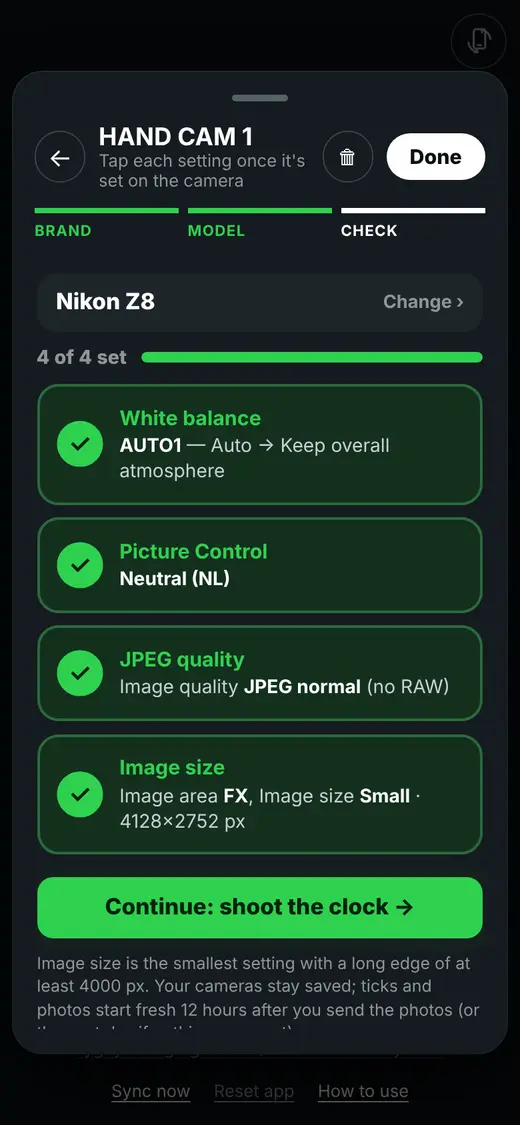
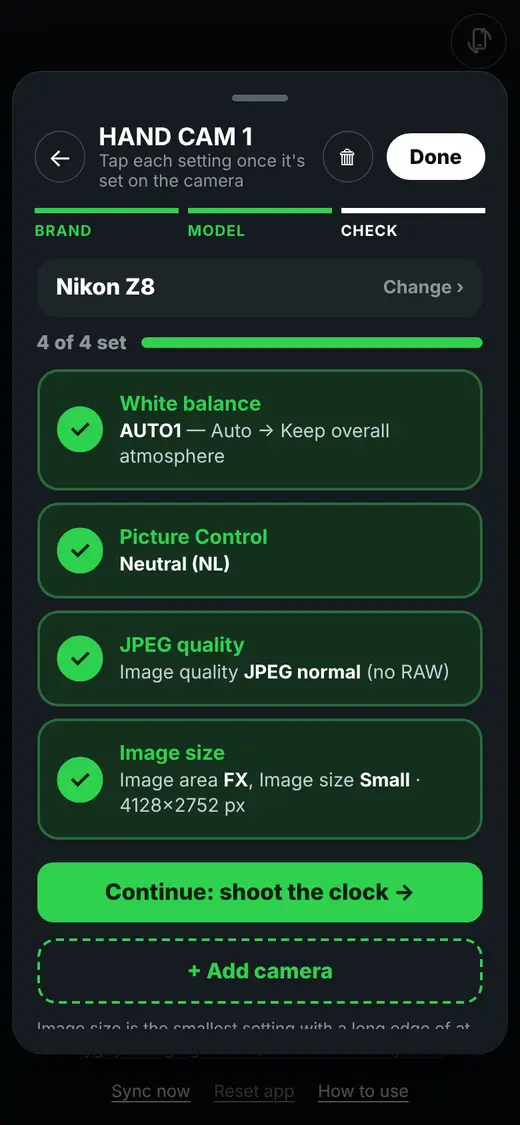
Add cameras from the check screen; all checks, then all clocks, then all screens
- "+ Add camera" under Continue on the settings check opens the new camera's
  brand screen (slide down drops it again and returns to the check).
- Camera row in the check screen shows with 2+ cameras and is no longer cut
  in half.
- Continue goes to the next camera still needing its check, then to shooting.
- Clock step runs through every checked camera in turn ("Shot → next: LS 1",
  "clock 1 of 2"); the white box switches to that camera so each clock shot
  is labelled right. Then each camera's screen photo and review, then Send.
- Guide text and screenshots updated.

Claude-Session: https://claude.ai/code/session_01JznZzYxsbG1MxddMkXcSY2

Changed region(s): [[0.0615, 0.4044, 0.9538, 0.9333], [0.0615, 0.2489, 0.9231, 0.4356], [0.8923, 0.4044, 0.9231, 0.4667]]

diff --git a/index.html b/index.html
@@ -196,6 +196,11 @@ html.land:not(.rot) .g-body img{width:min(100%, 11rem)}
 @keyframes scIn{from{opacity:0; transform:translateX(28px)}} @keyframes scBack{from{opacity:0; transform:translateX(-28px)}}
 .pop-label{font-size:.72rem; font-weight:800; letter-spacing:.08em; text-transform:uppercase; color:var(--muted); margin-top:.2rem}
 .pop-label[hidden]{display:none}
+.pop-sc > *{flex-shrink:0}   /* nothing in a popup screen gets squashed (the camera row was being cut in half) */
+.strip[hidden]{display:none}
+.addcam{font:inherit; font-weight:800; font-size:1rem; color:var(--ok); background:transparent; border:2px dashed var(--ok); border-radius:14px; padding:.8rem; cursor:pointer}
+.addcam[hidden]{display:none}
+.addcam:active{transform:scale(.98)}
 /* Hand cam / LS switch */
 .seg{display:flex; background:#0e1316; border-radius:14px; padding:4px; gap:4px}
 .seg[hidden]{display:none}
@@ -601,6 +606,7 @@ html:not(.land) .taphint{transform:translateY(calc(-1 * var(--boxh, 0px))); tran
       <div class="ckhead"><span id="ckCount"></span><div class="ckbar"><i id="ckFill"></i></div></div>
       <ol id="checklist" class="checklist"></ol>
       <button id="sheetGo" class="fl-go" type="button" hidden></button>
+      <button id="pAddCam" class="addcam" type="button">+ Add camera</button>
       <div id="photoRow" class="photorow" hidden><img id="photoThumb" alt="Photo of the camera back"><span>Camera-back photo saved</span><button id="photoRetake" class="addbtn" type="button">Retake</button><button id="photoDel" class="addbtn del" type="button">Delete</button></div>
       <p id="sheetNote" class="sheet-note"></p>
       <button id="sendPhotos" class="resetbtn send" type="button" hidden></button>
@@ -645,18 +651,18 @@ html:not(.land) .taphint{transform:translateY(calc(-1 * var(--boxh, 0px))); tran
 <div id="guide" class="viewer guide" hidden role="dialog" aria-modal="true" aria-labelledby="gTitle">
   <div class="view-top g-top"><b id="gTitle">How to use</b><button id="gClose" class="g-close" type="button" aria-label="Close the guide">✕</button></div>
   <ol class="g-list">
-    <li class="g-step"><div class="g-num">1</div><div class="g-body"><b>Type your initials</b><p>Tap the white box at the top and type them in, then tap <b>Done</b> on the keyboard. They go on every camera label and photo name. Tap the box again any time to change them.</p><img src="guide/1.webp?v=5" alt="" loading="lazy" width="390" height="844"></div></li>
-    <li class="g-step"><div class="g-num">2</div><div class="g-body"><b>Add your first camera</b><p>Tap <b>+ 📷</b> at the bottom of the clock screen.</p><img src="guide/2.webp?v=5" alt="" loading="lazy" width="390" height="844"></div></li>
-    <li class="g-step"><div class="g-num">3</div><div class="g-body"><b>Pick the camera</b><p>Choose <b>Hand cam</b> or <b>LS</b> at the top, then tap the brand and the model. Your recent cameras show at the top for one-tap picks.</p><img src="guide/3.webp?v=5" alt="" loading="lazy" width="390" height="844"></div></li>
-    <li class="g-step"><div class="g-num">4</div><div class="g-body"><b>Set the 4 settings</b><p>Set each setting on your camera and tick it. Every tick has to be tapped. Then tap <b>Continue: shoot the clock →</b>.</p><img src="guide/4.webp?v=5" alt="" loading="lazy" width="390" height="844"></div></li>
-    <li class="g-step"><div class="g-num">5</div><div class="g-body"><b>Shoot the clock</b><p>Point your camera at the clock and take a shot. Then tap <b>Done →</b> on the green bubble.</p><img src="guide/5.webp?v=5" alt="" loading="lazy" width="390" height="844"></div></li>
-    <li class="g-step"><div class="g-num">6</div><div class="g-body"><b>The green bubble</b><p>The bubble always shows your next step: just tap it. Drag it anywhere on the screen to keep the clock clear. Tap the <b>⤢ arrows</b> to open the camera box: your cameras, progress, ✎ 🗑 ✕, the instructions and ← Back links. Tap its line, tap ✕ or slide it down to turn it back into the bubble.</p><img src="guide/6.webp?v=5" alt="" loading="lazy" width="390" height="844"></div></li>
-    <li class="g-step"><div class="g-num">7</div><div class="g-body"><b>Photograph the camera's screen</b><p>On the camera, play back the shot of the clock with its <b>time showing</b>. Tap <b>📷 Shoot</b>, fill the frame with the camera's screen and press the shutter.</p><img src="guide/7.webp?v=5" alt="" loading="lazy" width="390" height="844"></div></li>
-    <li class="g-step"><div class="g-num">8</div><div class="g-body"><b>Check: same second?</b><p>The app reads the clock in the shot and the camera's own time and tells you <b>In sync ✓</b> or how many seconds it's off. Zoom in to check by eye. In sync: tap <b>✓ Yes, in sync</b>. Not in sync: fix the camera's clock, shoot the clock again and <b>Retake</b>.</p><img src="guide/8.webp?v=5" alt="" loading="lazy" width="390" height="844"></div></li>
-    <li class="g-step"><div class="g-num">9</div><div class="g-body"><b>Next camera or add one</b><p>Tap <b>Next camera →</b> for the next one in your list. Tap <b>+ 📷</b> on the bubble to add another hand cam or LS.</p><img src="guide/9.webp?v=5" alt="" loading="lazy" width="390" height="844"></div></li>
-    <li class="g-step"><div class="g-num">10</div><div class="g-body"><b>Send the photos</b><p>When every camera has its photo, tap <b>Send →</b>. Look over the list (tap one to see it again), then tap <b>Send</b> and pick your group chat. Sending is locked until every camera has a photo; a red tile takes you to the one that's missing.</p><img src="guide/10.webp?v=5" alt="" loading="lazy" width="390" height="844"></div></li>
-    <li class="g-step"><div class="g-num">11</div><div class="g-body"><b>Change, delete or switch cameras</b><p>Open the box with the ⤢ arrows: tap a camera to switch to it, tap it again (or ✎) to change its check, 🗑 twice to delete it, + to add one.</p><img src="guide/11.webp?v=5" alt="" loading="lazy" width="390" height="844"></div></li>
-    <li class="g-step"><div class="g-num">12</div><div class="g-body"><b>Change Hand cam / LS</b><p>Tap the camera name in the white box (e.g. <b>· HAND CAM 1</b>). Under <b>Change cam to:</b> pick <b>Hand cam</b> or <b>LS</b>. Its ticks and photo move with it.</p><img src="guide/12.webp?v=5" alt="" loading="lazy" width="390" height="844"></div></li>
+    <li class="g-step"><div class="g-num">1</div><div class="g-body"><b>Type your initials</b><p>Tap the white box at the top and type them in, then tap <b>Done</b> on the keyboard. They go on every camera label and photo name. Tap the box again any time to change them.</p><img src="guide/1.webp?v=6" alt="" loading="lazy" width="390" height="844"></div></li>
+    <li class="g-step"><div class="g-num">2</div><div class="g-body"><b>Add your first camera</b><p>Tap <b>+ 📷</b> at the bottom of the clock screen.</p><img src="guide/2.webp?v=6" alt="" loading="lazy" width="390" height="844"></div></li>
+    <li class="g-step"><div class="g-num">3</div><div class="g-body"><b>Pick the camera</b><p>Choose <b>Hand cam</b> or <b>LS</b> at the top, then tap the brand and the model. Your recent cameras show at the top for one-tap picks.</p><img src="guide/3.webp?v=6" alt="" loading="lazy" width="390" height="844"></div></li>
+    <li class="g-step"><div class="g-num">4</div><div class="g-body"><b>Set the 4 settings</b><p>Set each setting on your camera and tick it. Every tick has to be tapped. More cameras? Tap <b>+ Add camera</b> and check each one. Then tap <b>Continue: shoot the clock →</b>.</p><img src="guide/4.webp?v=6" alt="" loading="lazy" width="390" height="844"></div></li>
+    <li class="g-step"><div class="g-num">5</div><div class="g-body"><b>Shoot the clock</b><p>Every camera shoots the clock, one after another. The white box shows whose turn it is: take the shot with that camera, then tap <b>Shot → next</b> on the green bubble (<b>Done →</b> after the last one).</p><img src="guide/5.webp?v=6" alt="" loading="lazy" width="390" height="844"></div></li>
+    <li class="g-step"><div class="g-num">6</div><div class="g-body"><b>The green bubble</b><p>The bubble always shows your next step: just tap it. Drag it anywhere on the screen to keep the clock clear. Tap the <b>⤢ arrows</b> to open the camera box: your cameras, progress, ✎ 🗑 ✕, the instructions and ← Back links. Tap its line, tap ✕ or slide it down to turn it back into the bubble.</p><img src="guide/6.webp?v=6" alt="" loading="lazy" width="390" height="844"></div></li>
+    <li class="g-step"><div class="g-num">7</div><div class="g-body"><b>Photograph the camera's screen</b><p>On the camera, play back the shot of the clock with its <b>time showing</b>. Tap <b>📷 Shoot</b>, fill the frame with the camera's screen and press the shutter.</p><img src="guide/7.webp?v=6" alt="" loading="lazy" width="390" height="844"></div></li>
+    <li class="g-step"><div class="g-num">8</div><div class="g-body"><b>Check: same second?</b><p>The app reads the clock in the shot and the camera's own time and tells you <b>In sync ✓</b> or how many seconds it's off. Zoom in to check by eye. In sync: tap <b>✓ Yes, in sync</b>. Not in sync: fix the camera's clock, shoot the clock again and <b>Retake</b>.</p><img src="guide/8.webp?v=6" alt="" loading="lazy" width="390" height="844"></div></li>
+    <li class="g-step"><div class="g-num">9</div><div class="g-body"><b>Next camera's screen</b><p>Tap <b>Next camera →</b> to photograph the next camera's screen. Forgot one? Tap <b>+ 📷</b> on the bubble to add another hand cam or LS.</p><img src="guide/9.webp?v=6" alt="" loading="lazy" width="390" height="844"></div></li>
+    <li class="g-step"><div class="g-num">10</div><div class="g-body"><b>Send the photos</b><p>When every camera has its photo, tap <b>Send →</b>. Look over the list (tap one to see it again), then tap <b>Send</b> and pick your group chat. Sending is locked until every camera has a photo; a red tile takes you to the one that's missing.</p><img src="guide/10.webp?v=6" alt="" loading="lazy" width="390" height="844"></div></li>
+    <li class="g-step"><div class="g-num">11</div><div class="g-body"><b>Change, delete or switch cameras</b><p>Open the box with the ⤢ arrows: tap a camera to switch to it, tap it again (or ✎) to change its check, 🗑 twice to delete it, + to add one.</p><img src="guide/11.webp?v=6" alt="" loading="lazy" width="390" height="844"></div></li>
+    <li class="g-step"><div class="g-num">12</div><div class="g-body"><b>Change Hand cam / LS</b><p>Tap the camera name in the white box (e.g. <b>· HAND CAM 1</b>). Under <b>Change cam to:</b> pick <b>Hand cam</b> or <b>LS</b>. Its ticks and photo move with it.</p><img src="guide/12.webp?v=6" alt="" loading="lazy" width="390" height="844"></div></li>
     <li class="g-step"><div class="g-num">i</div><div class="g-body"><b>Good to know</b><p>
       · <b>Sync now</b> re-checks the time server; the line above it shows how far off your phone's own clock is.<br>
       · <b>Tap the clock</b> to hide the buttons for a clean shot; tap again to bring them back.<br>
@@ -1355,6 +1361,8 @@ html:not(.land) .taphint{transform:translateY(calc(-1 * var(--boxh, 0px))); tran
     document.getElementById("addHC").disabled = hc >= MAXN;
     document.getElementById("addLS").disabled = ls >= MAXN;
     document.getElementById("removeCam").hidden = false;
+    tabsEl.hidden = kit.empty || kit.cams.length < 2;
+    document.getElementById("pAddCam").hidden = hc >= MAXN && ls >= MAXN;
   }
   function setActive(k){ kit.active = k; save(); hideNext(); refresh(); }
   function refresh(){
@@ -1739,6 +1747,10 @@ html:not(.land) .taphint{transform:translateY(calc(-1 * var(--boxh, 0px))); tran
   var at = {};
   function stepOf(c){ var k = photoKey(c); return at[k] || (photos[k] || skipped[k] ? 4 : shotClock[k] ? 2 : 1); }
   function go(c, n){ var k = photoKey(c); if(n === 4) delete at[k]; else at[k] = n; showNext(c); }
+  // Cameras still to shoot the clock (checked, clock not shot yet), in list order
+  function clockQueue(){ return kit.cams.filter(function(c){ return isDone(c) && stepOf(c) === 1; }); }
+  // Another camera whose settings check isn't done yet
+  function nextUnchecked(a){ return kit.cams.filter(function(c){ return c !== a && !isDone(c); })[0] || null; }
   function showNext(a, quiet){
     bannerCam = a; var k = photoKey(a), rec = photos[k], name = key(a), st = stepOf(a), up = false; showRaise = false;
     if(!isDone(a)){
@@ -1749,8 +1761,20 @@ html:not(.land) .taphint{transform:translateY(calc(-1 * var(--boxh, 0px))); tran
       return;
     }
     if(st === 1){
-      panel({step: 0, kick: name + " · step 1", head: "Shoot the clock", sub: "",
-        go: ["Done →", function(){ shotClock[k] = true; go(a, 2); }],
+      // Every checked camera shoots the clock, one after another; the white box names the camera whose turn it is
+      if(kit.active !== key(a)){ kit.active = key(a); save(); updateCam(); }
+      var q = clockQueue(), nx = q.filter(function(c){ return c !== a; })[0] || null;
+      // This round: every checked camera still without its screen photo
+      var rnd = kit.cams.filter(function(c){ var pk = photoKey(c); return isDone(c) && !photos[pk] && !skipped[pk]; }), qi = rnd.indexOf(a);
+      panel({step: 0, kick: name + " · step 1" + (rnd.length > 1 && qi >= 0 ? " · clock " + (qi + 1) + " of " + rnd.length : ""), head: "Shoot the clock with " + short(a),
+        sub: nx ? "Then: " + q.filter(function(c){ return c !== a; }).map(short).join(", ") : "",
+        go: [nx ? "Shot → next: " + key(nx) : "Done →", function(){
+          shotClock[k] = true; delete at[k];
+          if(nx){ showNext(nx); return; }
+          var sc = kit.cams.filter(function(c){ return isDone(c) && stepOf(c) === 2; })[0] || a;   // all clocks shot: photos of the screens
+          if(kit.active !== key(sc)){ kit.active = key(sc); save(); updateCam(); }
+          showNext(sc);
+        }],
         l: ["← Back", function(){ hideNext(); setActive(key(a)); openSheet(); }],
         r: rec || skipped[k] ? ["Next →", function(){ go(a, 4); }] : null});
       return;
@@ -2560,10 +2584,19 @@ html:not(.land) .taphint{transform:translateY(calc(-1 * var(--boxh, 0px))); tran
   var sheetGo = document.getElementById("sheetGo");
   function updateSheetGo(){
     var a = act(), on = isDone(a); sheetGo.hidden = !on; sheetGo.classList.toggle("ready", on); if(!on) return;
-    var st = stepOf(a);
-    sheetGo.textContent = st === 1 ? "Continue: shoot the clock →" : st === 2 ? "Continue: photo of the screen →" : "Continue →";
+    var st = stepOf(a), u = nextUnchecked(a);
+    sheetGo.textContent = u ? "Next: check " + key(u) + " →" : st === 1 ? "Continue: shoot the clock →" : st === 2 ? "Continue: photo of the screen →" : "Continue →";
   }
-  sheetGo.addEventListener("click", function(){ var a = act(); closeSheet(); showNext(a); });
+  sheetGo.addEventListener("click", function(){
+    var a = act(), u = nextUnchecked(a);
+    if(u){ addedFrom = addedKey = null; setActive(key(u)); goScreen(screenFor(u)); return; }   // checks first, every camera
+    var q = clockQueue(); if(stepOf(a) === 1 && q.length && q[0] !== a){ kit.active = key(q[0]); save(); updateCam(); }
+    closeSheet();
+  });
+  // Add another camera straight from its check: its brand screen opens (slide down drops it again)
+  document.getElementById("pAddCam").addEventListener("click", function(){
+    var hcN = kit.cams.filter(function(c){ return c.type === "HAND CAM"; }).length; buzz(); addFirst(hcN < MAXN ? "HAND CAM" : "LS");
+  });
   // Slide the camera pop-up down to put it away. A camera you just added and haven't started is dropped,
   // and you're back on the check of the camera you were on.
   function slideAway(){
